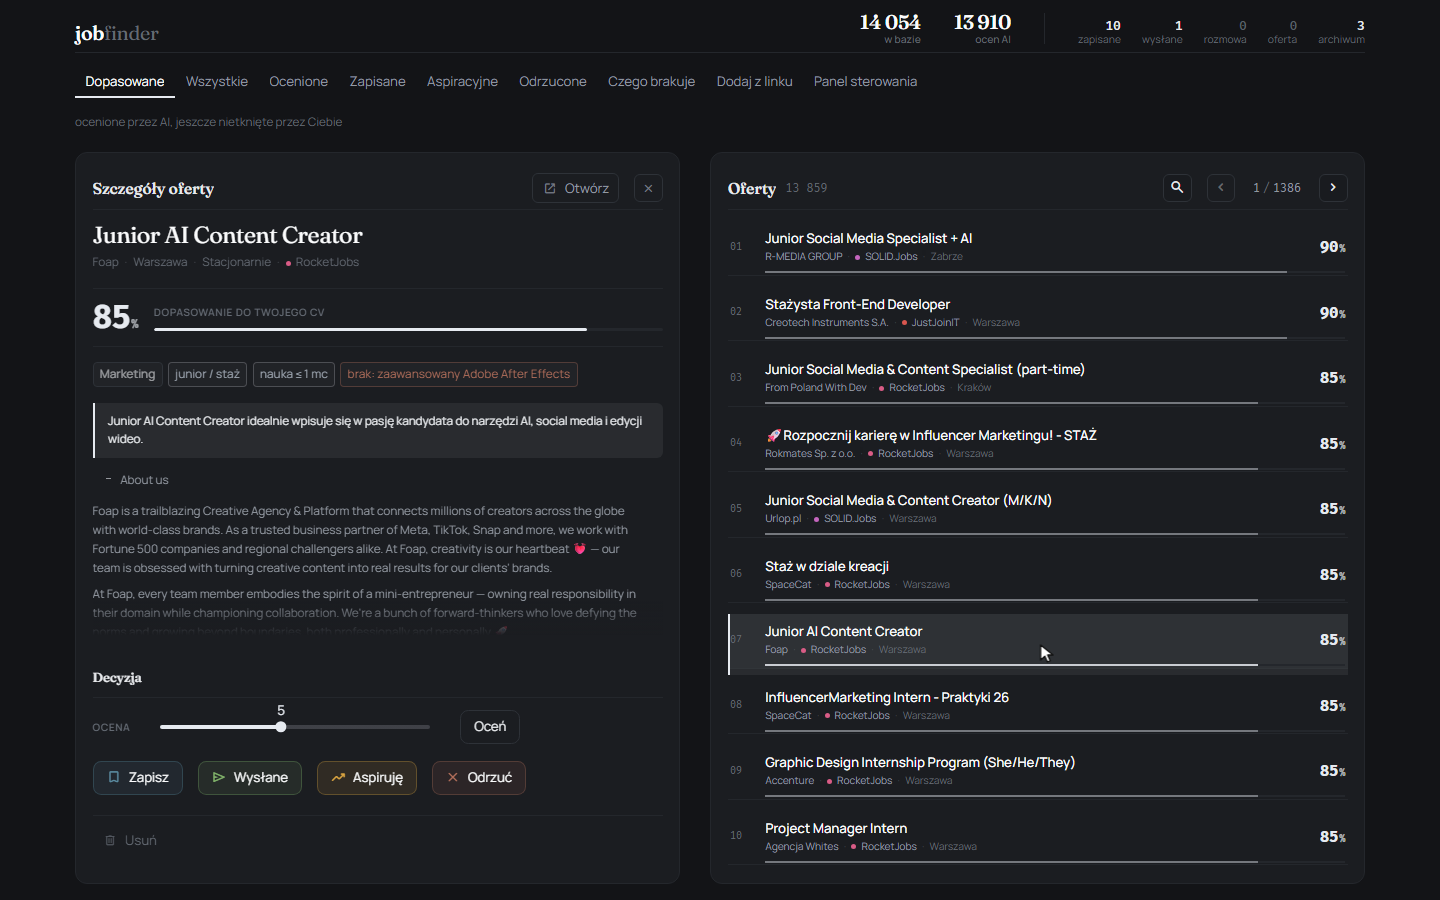
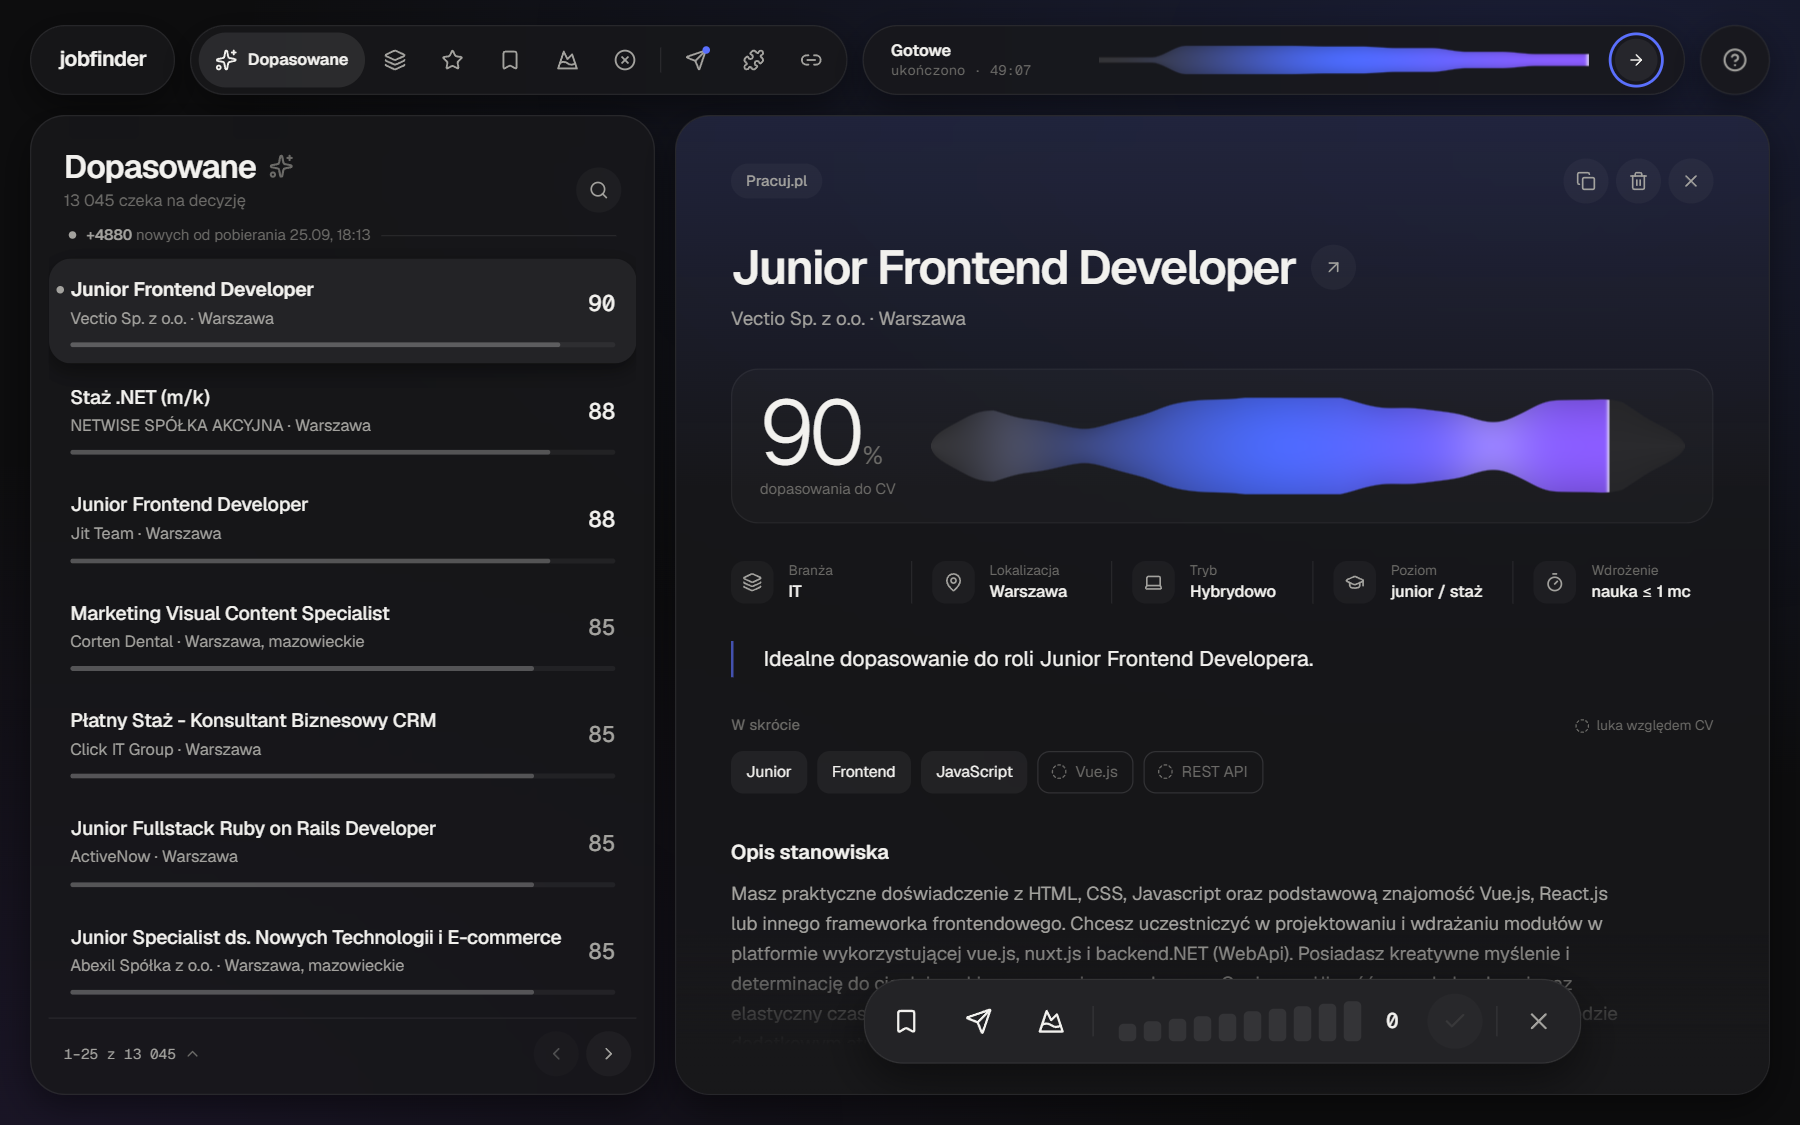
Dokumentacja: nowy README po angielsku i zrzut ekranu interfejsu V2

diff --git a/README.md b/README.md
@@ -2,7 +2,7 @@
 
 *Every job board in Poland, read overnight and sorted against one CV.*
 
-![Job Finder - offer list and activity log](docs/app.png)
+![Job Finder - offer list, offer detail with match fingerprint and decision dock](docs/app.png)
 
 ## What this is
 
@@ -11,7 +11,7 @@ against my CV, and I decide on it in one click.
 
 ```
     job boards              the pipeline                  the interface
-    Pracuj, OLX,            run_final_pipeline.py         streamlit run
+    Pracuj, OLX,            run_final_pipeline.py         python server.py (React/Vite)
     justjoin, praca.pl,           |                             |
     aplikuj, gowork, ...          v                             v
           |                deduplicate -> clean ->        offers sorted by match,
@@ -32,19 +32,29 @@ the next ranking.
 ## How it works
 
 ```
+purge_stale_offers.py         archives manual ratings before old offers are dropped
 main_scraper.py               collects offers from all sources in parallel
    +-- scrapers/              one module per board - the API where there is one, HTML where not
 migrate_normalize_links.py    canonicalises URLs; runs before deduplication, because the same
                               offer under ?utm_source=... otherwise counts as two
-deduplicate_db.py             removes duplicates - one offer often sits on four boards at once
+deduplicate_db.py             merges duplicates - one offer often sits on four boards at once
 clean_db.py                   trims descriptions so scoring does not burn tokens on boilerplate
 waterfall_analysis.py         scoring: a cheap model takes the bulk, a stronger one picks up
                               what it declines; API keys rotate, an interrupted run resumes
 eval_ranking.py               compares the ranking against ratings entered by hand
-streamlit_app.py              the interface - browsing, filtering and rating offers
 ```
 
-`python run_final_pipeline.py` runs the whole thing end to end.
+`python run_final_pipeline.py` runs these stages in this order, end to end.
+
+The interface is a local app:
+
+```
+server.py                     Starlette/Uvicorn backend: JSON API, pipeline control, serves the UI
+pipeline_manager.py           starts, stops and resumes the pipeline process; parses its log
+                              into live telemetry (stage counts, batches, key rotation, ETA)
+app_services.py               offers, decisions, applications and CV handling behind the API
+frontend/                     React 19 + TypeScript + Vite
+```
 
 Four scripts sit outside the pipeline and are run by hand:
 
@@ -57,33 +67,67 @@ skill_gaps.py                 what the well-matched offers keep asking for and m
 enrich_olx_descriptions.py    fetches the real text for OLX offers left with a placeholder
 ```
 
-The interface is a single screen: offers on the right, details and decision buttons on the
-left. Rating an offer moves it between tabs - saved, applied, aspirational, rejected.
+## The interface
+
+Desktop only, dark theme.
+
+- **Top bar** - logo, categories as icons (matched, all, rated, saved, aspirational,
+  rejected, applications, skill gaps, add from link) and the pipeline bar.
+- **Offer list** - sorted by match; fresh offers since the last scrape are marked. Decision
+  tabs show my own rating instead of the AI score.
+- **Offer detail** - a match fingerprint drawn per offer, keyword highlights and gaps against
+  the CV, the full description, and a decision dock: save / applied / aspirational / reject
+  plus a 1-10 rating. Keyboard: `Z` `W` `A` `X` for decisions, `1`-`0` for the rating.
+- **Applications** - a recruitment board (saved → applied → interview → offer, plus
+  archive); cards are dragged between stages and carry a next step with a due date.
+- **Skill gaps** - what well-matched offers ask for and the CV lacks, with a jump to the
+  offers behind each gap.
+- **Add from link** - fetches an offer from a URL and saves it into the database.
+- **Pipeline bar** - current stage and progress from any view. It unfolds into a sheet with
+  per-stage counts, scoring batches, API key rotation, the live log and single steps. Every
+  run starts from a launch dialog with prerequisite checks (CV, API keys, scrapers - editable
+  in place), a run mode (full or scoring only) and explicit API cost consent.
+- **Help** (`?`) - shortcuts and explanations.
 
 ## Running it
 
 ```bash
 pip install -r requirements.txt
 playwright install chromium
+cp .env.example .env                      # your own Gemini API key(s)
 
-cp .env.example .env        # your own Gemini API key
-streamlit run streamlit_app.py
+cd frontend && npm install && npm run build && cd ..
+PYTHONIOENCODING=utf-8 python server.py   # http://127.0.0.1:8501
 ```
 
-The web interface includes a primary **pipeline launcher ("Uruchom pipeline")** where you can configure your CV (upload PDF/DOCX/TXT or paste text), verify API keys, and launch the full pipeline with live stage progress and real-time logs.
+For frontend work, `npm run dev` in `frontend/` serves on port 5173 and proxies `/api` to
+the running `server.py`.
 
-Alternatively, run the pipeline directly via CLI:
+The pipeline can also run without the UI:
+
 ```bash
-python run_final_pipeline.py                    # full run
-python run_final_pipeline.py --skip-scraping      # score existing DB offers
-```
-python eval_ranking.py                                    # is the ranking any good?
-python skill_gaps.py                                      # what to learn next
-PYTHONIOENCODING=utf-8 python tests/integration_test.py   # 100+ checks, no API calls
+python run_final_pipeline.py                  # full run
+python run_final_pipeline.py --skip-scraping  # score offers already in the DB (still paid)
+python run_final_pipeline.py --resume         # continue an interrupted or failed run
+
+python eval_ranking.py                        # is the ranking any good?
+python skill_gaps.py                          # what to learn next
+PYTHONIOENCODING=utf-8 python tests/integration_test.py   # integration checks, no API calls
 ```
 
-Success means both exit code 0 and `PIPELINE COMPLETE`; a failed stage produces
-`PIPELINE INCOMPLETE` and a non-zero exit code.
+Success means both exit code 0 and `PIPELINE COMPLETE`; a failed stage prints
+`PIPELINE INCOMPLETE` and exits non-zero, a stopped run prints `PIPELINE STOPPED`. The
+pipeline halts at the first failed stage. `pipeline_checkpoint.json` keeps completed stages
+and options, so `--resume` (or Resume in the UI) skips finished phases.
+
+### Stopping a run
+
+- **Cooperative stop** is checked before every stage and at every scoring batch boundary
+  (75 offers). A batch already sent to Gemini finishes first, typically 3-15 s.
+- **Forced stop** (a second click in the UI) kills the process tree immediately. It is only
+  ever an explicit user action, never automatic during a save.
+- **Resume** skips batches already written to disk. A batch that was in flight during a
+  forced stop is scored again.
 
 ## Notes
 
@@ -91,124 +135,15 @@ Success means both exit code 0 and `PIPELINE COMPLETE`; a failed stage produces
   declines. Which model sits where is measured by `benchmark_models.py`, not guessed.
 - **The profile is built from contrasts** - near-identical offers I rated differently. Those
   teach the model to tell them apart; a pile of good examples does not.
-- **Scores know when they are stale** - each one stores the description hash and profile
-  version behind it, and is re-scored when either changes.
+- **Existing scores are kept** - a normal run never re-scores what is already scored;
+  `--rescore-changed` re-scores offers whose description changed, `--rescore-all` starts over.
 - **Offers the board has taken down** sink to the bottom of the list with a badge, rather
   than being deleted - the signal is `last_seen`, and it is a heuristic, not a certainty.
 - **The database is JSON files**, with atomic writes and backup rotation in `utils/safe_io.py`.
-  Readable and 27 MB; Postgres is the obvious next step.
-- **Keys and personal data stay out of the repo** - keys come from `.env`, my CV and rating
-  history are gitignored.
+  Readable and a few dozen MB; Postgres is the obvious next step.
+- **Keys and personal data stay out of the repo** - keys come from `.env`; the CV, ratings
+  and decision history are gitignored.
 
 ## Stack
 
-Python - Playwright - Gemini API - Streamlit - BeautifulSoup
-
----
----
-
-# Job Finder
-
-*Wszystkie polskie portale pracy, przeczytane w nocy i ułożone pod jedno CV.*
-
-![Job Finder - lista ofert i log ostatnich zdarzeń](docs/app.png)
-
-## Czym to jest
-
-Na wejściu kilkanaście polskich portali, na wyjściu jedna lista. Każda oferta dostaje procent
-dopasowania do mojego CV, a decyzję podejmuję jednym kliknięciem.
-
-```
-    portale pracy           pipeline                      interfejs
-    Pracuj, OLX,            run_final_pipeline.py         streamlit run
-    justjoin, praca.pl,           |                             |
-    aplikuj, gowork, ...          v                             v
-          |                deduplikacja -> czyszczenie -> oferty ułożone wg
-          v                ocena dwoma modelami           dopasowania, decyzja
-    tysiące ofert          (najpierw tańszy,              jednym kliknięciem:
-    w bazie                 mocniejszy tam, gdzie         zapisane / wysłane /
-                            tańszy odmówił)               aspiracyjne / odrzucone
-                                  ^                              |
-                                  |                              v
-                        preference_profile.json   <------   moje oceny
-                        zbudowany z par kontrastowych:
-                        co oceniłem i jak
-```
-
-Pętla na dole jest tu sednem: każda moja ocena przebudowuje prompt, z którego powstanie
-następny ranking.
-
-## Jak to działa
-
-```
-main_scraper.py               zbiera oferty ze wszystkich źródeł równolegle
-   +-- scrapers/              jeden moduł na portal - API tam, gdzie jest, HTML tam, gdzie nie
-migrate_normalize_links.py    ujednolica adresy; idzie przed deduplikacją, bo bez tego ta sama
-                              oferta pod ?utm_source=... liczyłaby się jako dwie różne
-deduplicate_db.py             usuwa duplikaty - jedna oferta bywa naraz na czterech portalach
-clean_db.py                   skraca opisy, żeby ocena nie przepalała tokenów na wypełniaczu
-waterfall_analysis.py         ocena: tańszy model bierze większość, mocniejszy wchodzi tam,
-                              gdzie tańszy odmówił; klucze rotują, przerwany bieg się wznawia
-eval_ranking.py               porównuje ranking z ocenami wystawionymi ręcznie
-streamlit_app.py              interfejs - przeglądanie, filtrowanie i ocenianie ofert
-```
-
-`python run_final_pipeline.py` przechodzi całość od początku do końca.
-
-Cztery skrypty stoją poza pipelinem i uruchamia się je ręcznie:
-
-```
-benchmark_models.py           mierzy, jak bardzo każdy model zgadza się z moimi ocenami
-compare_before_after.py       jedyny sposób, żeby stwierdzić, czy zmiana promptu pomogła -
-                              pipeline pomija oferty, które oceniłem, więc ich zapisane
-                              wyniki nigdy nie odświeżają się same
-skill_gaps.py                 czego najczęściej brakuje w ofertach, które i tak dobrze pasują
-enrich_olx_descriptions.py    dociąga prawdziwą treść ofert OLX, które zostały z zaślepką
-```
-
-Interfejs to jeden ekran: po prawej oferty, po lewej szczegóły i przyciski decyzji. Ocena
-oferty przenosi ją między zakładkami - zapisane, wysłane, aspiracyjne, odrzucone.
-
-## Uruchomienie
-
-```bash
-pip install -r requirements.txt
-playwright install chromium
-
-cp .env.example .env        # własny klucz Gemini
-streamlit run streamlit_app.py
-```
-
-W interfejsie dostępny jest **główny panel uruchamiania („Uruchom pipeline”)**, w którym skonfigurujesz CV (wgranie PDF/DOCX/TXT lub wklejenie tekstu), sprawdzisz wymagania i uruchomisz pipeline z podglądem etapów oraz logów na żywo.
-
-Pipeline można też uruchomić bezpośrednio z wiersza poleceń:
-```bash
-python run_final_pipeline.py                    # pełny przebieg
-python run_final_pipeline.py --skip-scraping      # od deduplikacji i analizy AI
-```
-python eval_ranking.py                                    # czy ranking działa?
-python skill_gaps.py                                      # czego się nauczyć
-PYTHONIOENCODING=utf-8 python tests/integration_test.py   # ponad 100 testów, bez API
-```
-
-Sukces oznacza jednocześnie kod wyjścia 0 i `PIPELINE COMPLETE`; błąd etapu daje
-`PIPELINE INCOMPLETE` oraz niezerowy kod wyjścia.
-
-## Uwagi
-
-- **Dwa modele, nie jeden** - tańszy ocenia większość, mocniejszy wchodzi tam, gdzie tańszy
-  odmówił. Który model gdzie siedzi, mierzy `benchmark_models.py`, nie zgadywanie.
-- **Profil zbudowany na kontrastach** - bliźniaczo podobne oferty, którym dałem różne noty.
-  To one uczą model rozróżniać; sterta samych dobrych przykładów tego nie zrobi.
-- **Oceny wiedzą, kiedy są nieaktualne** - każda niesie hash opisu i wersję profilu, z których
-  powstała, i jest wystawiana od nowa, gdy któreś się zmieni.
-- **Oferty zdjęte z portalu** schodzą na dół listy z plakietką, zamiast znikać - sygnałem jest
-  `last_seen`, a to heurystyka, nie pewnik.
-- **Bazą są pliki JSON**, z zapisem atomowym i rotacją kopii w `utils/safe_io.py`. Czytelne
-  i ma 27 MB; Postgres to oczywisty następny krok.
-- **Klucze i dane osobowe zostają poza repozytorium** - klucze idą z `.env`, moje CV i historia
-  ocen są w `.gitignore`.
-
-## Stack
-
-Python - Playwright - Gemini API - Streamlit - BeautifulSoup
+Python - Playwright - Gemini API - Starlette / Uvicorn - React / TypeScript (Vite) - BeautifulSoup
